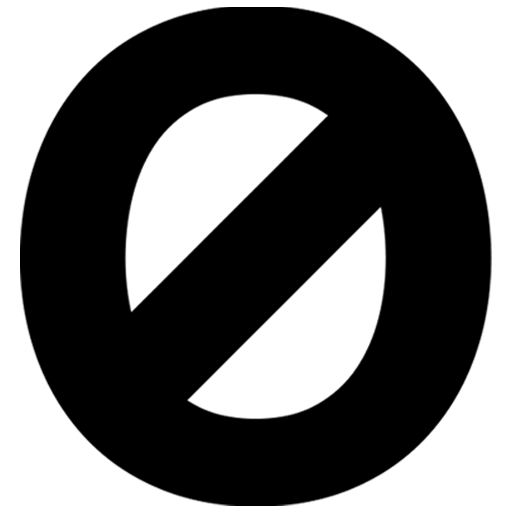
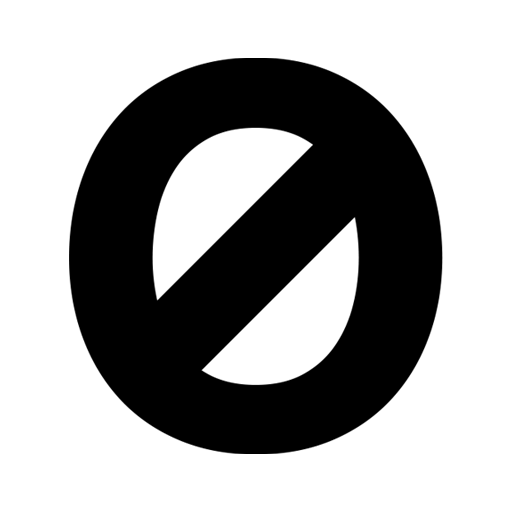
Add new splash layout and replace glyph.

diff --git a/_layouts/splash.html b/_layouts/splash.html
@@ -1,0 +1,17 @@
+<!DOCTYPE html>
+<html lang="{{ page.lang | default: site.lang | default: "en" }}">
+
+  {%- include head.html -%}
+
+  <body>
+
+    {%- include views/header.html -%}
+
+    {%- include views/banner.html -%}
+
+    {%- include extensions/hashlocate.html -%}
+
+    {%- include views/footer.html -%}
+
+  </body>
+</html>

diff --git a/_layouts/home.html b/_layouts/home.html
@@ -1,8 +1,6 @@
 ---
-layout: articles
+layout: splash
 heading: 'Your awesome heading'
 subheading: 'Your awesome subheading'
 banner: 'default'
 ---
-
-{{ content }}

diff --git a/_layouts/blog.html b/_layouts/blog.html
@@ -1,0 +1,8 @@
+---
+layout: articles
+heading: 'Your awesome heading'
+subheading: 'Your awesome subheading'
+banner: 'default'
+---
+
+{{ content }}
